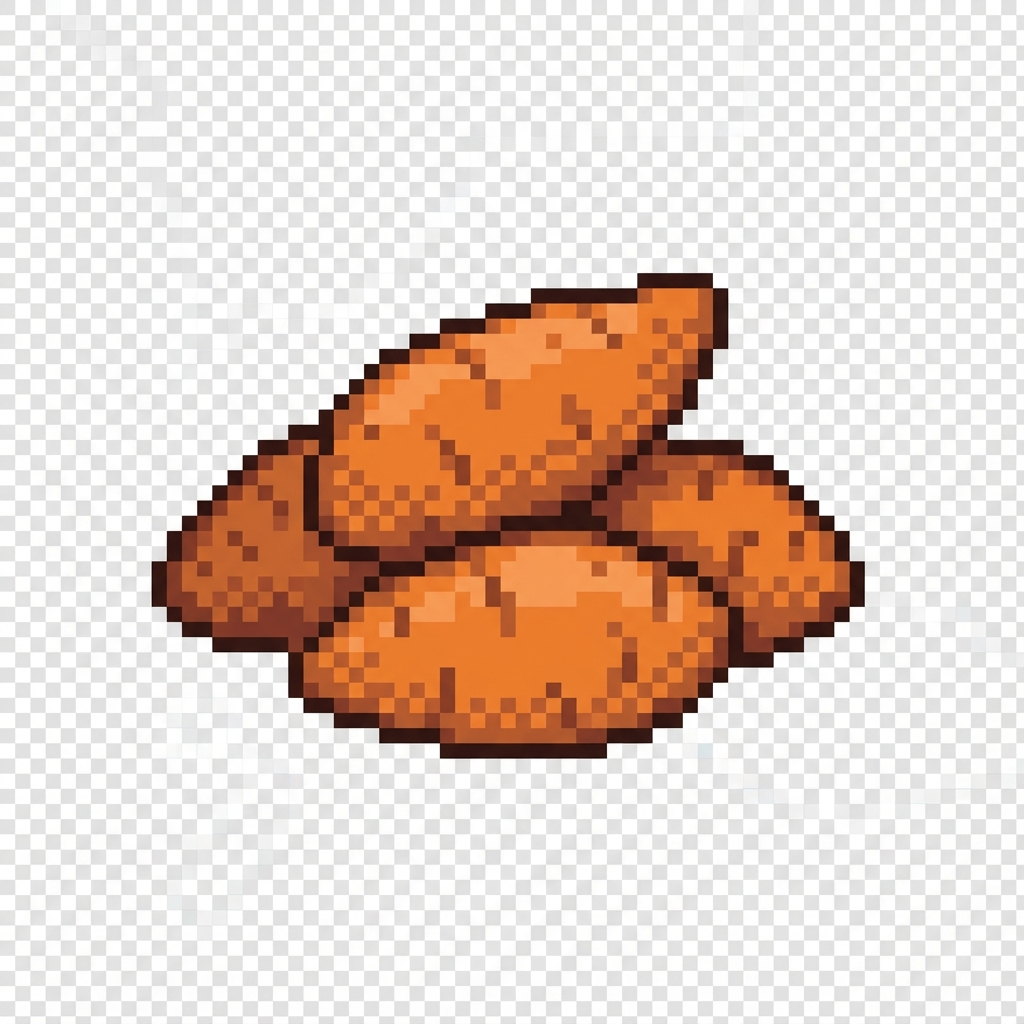
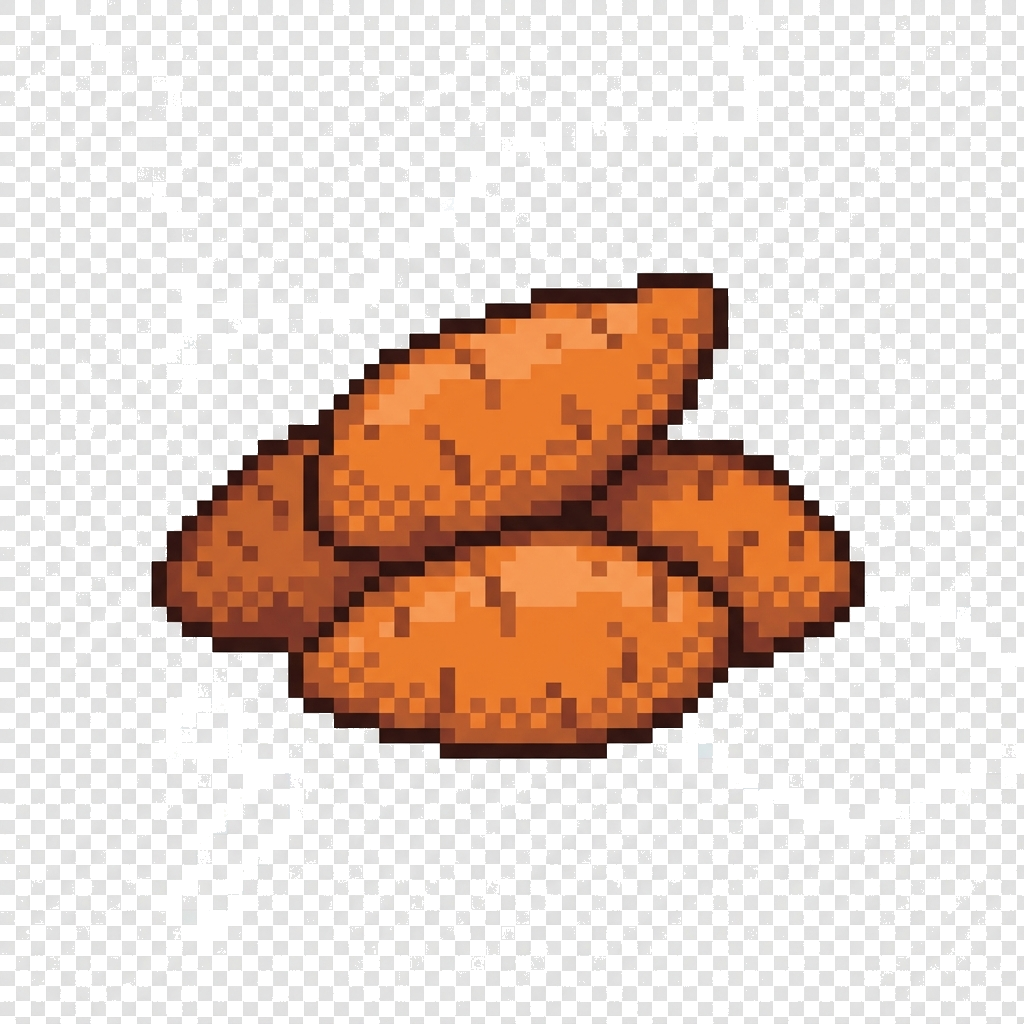
fixes

diff --git a/src/components/DishCarousel.tsx b/src/components/DishCarousel.tsx
@@ -36,7 +36,7 @@ export default function DishCarousel({ dishes, takenCounts, onSelect, selectedDi
                         animate={{ opacity: 1, x: 0, scale: 1 }}
                         exit={{ opacity: 0, x: -50, scale: 0.8 }}
                         transition={{ duration: 0.2 }}
-                        className="flex flex-col items-center justify-center cursor-pointer w-full"
+                        className="flex flex-col items-center justify-center cursor-pointer w-full group"
                         onClick={() => onSelect(currentDish)}
                     >
                         <div className={`relative w-48 h-48 transition-all duration-200 ${selectedDishId === currentDish.id ? 'scale-110 drop-shadow-[0_0_15px_rgba(34,197,94,0.8)]' : 'hover:scale-105'}`}>
@@ -52,13 +52,19 @@ export default function DishCarousel({ dishes, takenCounts, onSelect, selectedDi
                                     {takenCount}
                                 </div>
                             )}
-                            {selectedDishId === currentDish.id && (
-                                <div className="absolute -bottom-4 left-1/2 -translate-x-1/2 bg-green-600 text-white px-3 py-1 rounded-full text-xs border border-white whitespace-nowrap z-20">
+                            {selectedDishId === currentDish.id ? (
+                                <div className="absolute -bottom-6 left-1/2 -translate-x-1/2 bg-green-600 text-white px-3 py-1 rounded-full text-xs border border-white whitespace-nowrap z-20 animate-pulse shadow-[0_0_10px_rgba(34,197,94,0.8)]">
                                     SELECTED
+                                </div>
+                            ) : (
+                                <div className="absolute -bottom-6 left-1/2 -translate-x-1/2 bg-gray-700 text-gray-300 px-3 py-1 rounded-full text-[10px] border border-gray-500 whitespace-nowrap z-20 opacity-0 group-hover:opacity-100 transition-opacity">
+                                    CLICK TO SELECT
                                 </div>
                             )}
                         </div>
-                        <h3 className="mt-6 text-xl text-center text-yellow-400 font-bold tracking-wide drop-shadow-[2px_2px_0_rgba(0,0,0,1)] bg-black/50 px-4 py-1 rounded">{currentDish.name}</h3>
+                        <h3 className={`mt-8 text-xl text-center font-bold tracking-wide drop-shadow-[2px_2px_0_rgba(0,0,0,1)] px-4 py-1 rounded transition-colors ${selectedDishId === currentDish.id ? 'text-green-400 bg-black/70 border border-green-500' : 'text-yellow-400 bg-black/50'}`}>
+                            {currentDish.name}
+                        </h3>
                         <p className="text-xs text-gray-300 mt-1 bg-black/30 px-2 rounded">{currentDish.category}</p>
                     </motion.div>
                 </AnimatePresence>

diff --git a/src/components/RSVPModal.tsx b/src/components/RSVPModal.tsx
@@ -21,12 +21,22 @@ export default function RSVPModal({ isOpen, onClose, takenCounts, onSubmit }: RS
     const [customDish, setCustomDish] = useState('');
     const [isCustom, setIsCustom] = useState(false);
 
+    const [error, setError] = useState('');
+
     if (!isOpen) return null;
 
     const handleSubmit = (e: React.FormEvent) => {
         e.preventDefault();
-        if (!name) return alert('Please enter your name!');
-        if (!selectedDish && !customDish) return alert('Please select a dish or enter a custom one!');
+        setError('');
+
+        if (!name.trim()) {
+            setError('Please enter your name!');
+            return;
+        }
+        if (!selectedDish && !customDish) {
+            setError('Please select a dish or enter a custom one!');
+            return;
+        }
 
         onSubmit({
             name,
@@ -52,13 +62,22 @@ export default function RSVPModal({ isOpen, onClose, takenCounts, onSubmit }: RS
                 </div>
 
                 <form onSubmit={handleSubmit} className="p-6 space-y-6">
+                    {error && (
+                        <div className="bg-red-900/50 border-2 border-red-500 text-red-200 p-3 rounded text-sm font-bold animate-pulse">
+                            {error}
+                        </div>
+                    )}
+
                     {/* Name */}
                     <div className="space-y-2">
                         <label className="block text-sm text-green-400 uppercase tracking-wider">Your Name</label>
                         <input
                             type="text"
                             value={name}
-                            onChange={(e) => setName(e.target.value)}
+                            onChange={(e) => {
+                                setName(e.target.value);
+                                if (error) setError('');
+                            }}
                             className="w-full bg-black border-2 border-gray-600 p-3 text-white focus:border-green-500 focus:outline-none font-pixel"
                             placeholder="Enter name..."
                         />
@@ -73,7 +92,10 @@ export default function RSVPModal({ isOpen, onClose, takenCounts, onSubmit }: RS
                                 <DishCarousel
                                     dishes={DISHES}
                                     takenCounts={takenCounts}
-                                    onSelect={setSelectedDish}
+                                    onSelect={(dish) => {
+                                        setSelectedDish(dish);
+                                        if (error) setError('');
+                                    }}
                                     selectedDishId={selectedDish?.id}
                                 />
                                 <div className="text-center mt-2">

diff --git a/remove_bg.js b/remove_bg.js
@@ -1,0 +1,70 @@
+const sharp = require('sharp');
+const fs = require('fs');
+const path = require('path');
+
+const directory = './public';
+const files = fs.readdirSync(directory).filter(file => file.endsWith('.png'));
+
+// Approximate colors for the checkerboard (white and light grey)
+// We'll treat pixels close to these as transparent
+const targetColors = [
+    { r: 255, g: 255, b: 255 }, // White
+    { r: 204, g: 204, b: 204 }, // Light Grey (common in checkerboards)
+    { r: 238, g: 238, b: 238 }, // Another common grey
+    { r: 192, g: 192, b: 192 }, // Another common grey
+];
+
+const threshold = 10; // Tolerance
+
+async function processImages() {
+    for (const file of files) {
+        if (file === 'sad_cat.png') continue; // Skip sad cat if it's different
+
+        const inputPath = path.join(directory, file);
+        const outputPath = path.join(directory, 'processed_' + file);
+
+        console.log(`Processing ${file}...`);
+
+        try {
+            const { data, info } = await sharp(inputPath)
+                .ensureAlpha()
+                .raw()
+                .toBuffer({ resolveWithObject: true });
+
+            const pixelArray = new Uint8ClampedArray(data);
+
+            for (let i = 0; i < pixelArray.length; i += 4) {
+                const r = pixelArray[i];
+                const g = pixelArray[i + 1];
+                const b = pixelArray[i + 2];
+
+                // Check if pixel matches any of the background colors
+                const isBackground = targetColors.some(c =>
+                    Math.abs(r - c.r) < threshold &&
+                    Math.abs(g - c.g) < threshold &&
+                    Math.abs(b - c.b) < threshold
+                );
+
+                if (isBackground) {
+                    pixelArray[i + 3] = 0; // Set alpha to 0
+                }
+            }
+
+            await sharp(pixelArray, {
+                raw: {
+                    width: info.width,
+                    height: info.height,
+                    channels: 4
+                }
+            })
+                .png()
+                .toFile(inputPath); // Overwrite original
+
+            console.log(`Fixed ${file}`);
+        } catch (err) {
+            console.error(`Error processing ${file}:`, err);
+        }
+    }
+}
+
+processImages();

diff --git a/src/app/api/rsvp/route.ts b/src/app/api/rsvp/route.ts
@@ -1,23 +1,49 @@
 import { NextResponse } from 'next/server';
+import { sql } from '@vercel/postgres';
 
-// In a real app, use Vercel Postgres or KV
-// This is a temporary in-memory store
-let rsvps: any[] = [];
+// Fallback in-memory store
+let rsvpsInMemory: any[] = [];
 
 export async function GET() {
-    return NextResponse.json({ rsvps });
+    try {
+        // Try to query the database
+        const { rows } = await sql`CREATE TABLE IF NOT EXISTS rsvps (
+      id SERIAL PRIMARY KEY,
+      name VARCHAR(255),
+      dish VARCHAR(255),
+      dish_id VARCHAR(255),
+      plus_one BOOLEAN,
+      come_early BOOLEAN,
+      timestamp TIMESTAMP DEFAULT CURRENT_TIMESTAMP
+    );`;
+
+        const result = await sql`SELECT * FROM rsvps ORDER BY timestamp DESC`;
+        return NextResponse.json({ rsvps: result.rows });
+    } catch (error) {
+        console.warn('Database connection failed, using in-memory store:', error);
+        console.log('Current In-Memory RSVPs:', JSON.stringify(rsvpsInMemory, null, 2));
+        return NextResponse.json({ rsvps: rsvpsInMemory });
+    }
 }
 
 export async function POST(request: Request) {
     const body = await request.json();
 
-    const newRsvp = {
-        id: Date.now().toString(),
-        ...body,
-        timestamp: new Date().toISOString(),
-    };
+    try {
+        await sql`INSERT INTO rsvps (name, dish, dish_id, plus_one, come_early) 
+              VALUES (${body.name}, ${body.dish}, ${body.dishId}, ${body.plusOne}, ${body.comeEarly})`;
 
-    rsvps.push(newRsvp);
+        return NextResponse.json({ success: true });
+    } catch (error) {
+        console.warn('Database write failed, using in-memory store:', error);
 
-    return NextResponse.json({ success: true, rsvp: newRsvp });
+        const newRsvp = {
+            id: Date.now().toString(),
+            ...body,
+            timestamp: new Date().toISOString(),
+        };
+        rsvpsInMemory.push(newRsvp);
+
+        return NextResponse.json({ success: true, rsvp: newRsvp });
+    }
 }

diff --git a/README.md b/README.md
@@ -19,29 +19,27 @@ A retro "Day of the Tentacle" style web invitation for Friendsgiving.
 2.  Import the project into Vercel.
 3.  Deploy!
 
-### Database Setup (Important)
+### Database Setup (Recommended)
 
-Currently, the app uses an **in-memory** database for demonstration purposes. This means RSVPs will be lost if the server restarts (which happens frequently on Vercel serverless functions).
+The app is pre-configured to use **Vercel Postgres**. If you don't set it up, it will automatically fall back to an in-memory database (data is lost on restart).
 
-To make it persistent:
+**To set up the real database:**
 
-1.  **Create a Vercel Postgres Database**:
-    - Go to your Vercel project dashboard -> Storage -> Create -> Postgres.
-    - Connect it to your project.
-    - Pull the env vars (`.env.local`).
+1.  Go to your [Vercel Dashboard](https://vercel.com/dashboard).
+2.  Select your project.
+3.  Click on the **Storage** tab.
+4.  Click **Create Database** -> **Postgres**.
+5.  Give it a name (e.g., `thanksgiving-db`) and click **Create**.
+6.  Once created, click **Connect Project** and select this project.
+7.  Vercel will automatically add the necessary environment variables (`POSTGRES_URL`, etc.) to your deployment.
+8.  **Redeploy** your app (or push a new commit) for the changes to take effect.
 
-2.  **Update `src/app/api/rsvp/route.ts`**:
-    - Replace the in-memory array with SQL queries.
-    - Example:
-      ```ts
-      import { sql } from '@vercel/postgres';
-      
-      // GET
-      const { rows } = await sql`SELECT * FROM rsvps`;
-      
-      // POST
-      await sql`INSERT INTO rsvps (name, dish, plus_one, come_early) VALUES (...)`;
-      ```
+That's it! The app will automatically detect the database, create the table, and start saving RSVPs there.
+
+**Why Vercel Postgres over Google Sheets?**
+- **Zero Config:** It's built into Vercel. No API keys, service accounts, or complex OAuth setups.
+- **Reliable:** It's a real SQL database, much faster and more robust than a spreadsheet.
+- **Free Tier:** Vercel's free tier is generous enough for this event.
 
 ## Development
 
